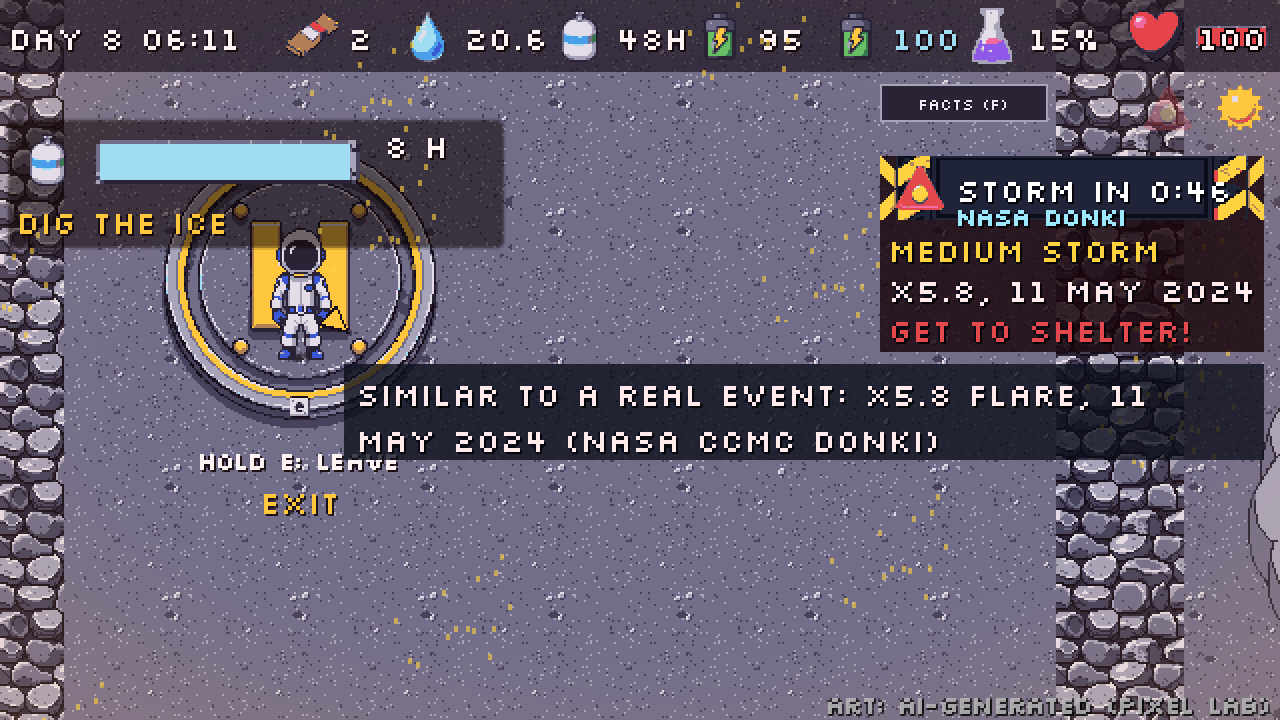
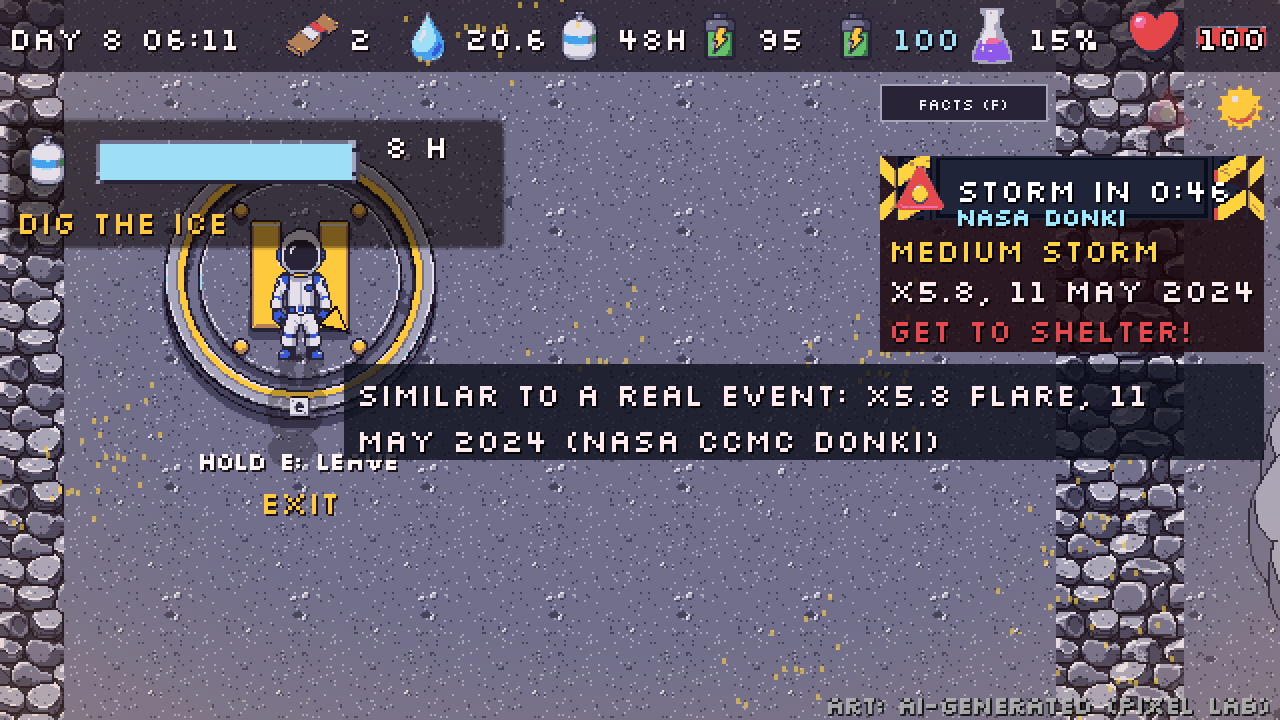
POLISH 2: polar sun long shadows that turn with the clock, hidden on shadow days; welcome card line; stronger grounding

diff --git a/docs/DECISIONS_LOG.md b/docs/DECISIONS_LOG.md
@@ -50,3 +50,4 @@
 - Last tester could not finish the success ending in the browser: the hidden pane ran at about 2 fps. flow_check now also checks that the finale arrow is visible at the start. The full success path (storm, shelter, crew lander, Extraction, EndingSuccess) is covered headless by flow_check; it still needs one hand play-through by the team before recording.
 - STOP (10:20): the visual polish round (grounding, polar sun shadows, ground, HUD cleanup, light) was stopped by the owner before any of it was applied; the one patch attempt failed in the shell, so the working tree was already clean. Nothing from that round is in the repository. Known bugs and pending work are listed in docs/PROGRESS.md.
 - POLISH 1 (grounding): node origins stay 2-36 px below each sprite's visual base on purpose (footprints reach down to the origin for y-sort), so origins were not moved; contact shadows and dirt patches now use the measured visual base from assets_derived/bases.json (tools/make_derived.py) and sit on the Ground layer under every sprite.
+- POLISH 2 (polar sun): long shadows are the sprites' own textures tinted black in one CanvasGroup (27% alpha, so overlaps never double-darken), skewed by Transform2D along a direction that turns once per 24 game hours (SUN_PHASE in polish.gd to rotate it); no derived silhouette PNGs needed. Hidden on shadow days. Welcome card body shortened so the new line fits (ui_check). Grounding made 25% stronger after review (too faint on camera).
